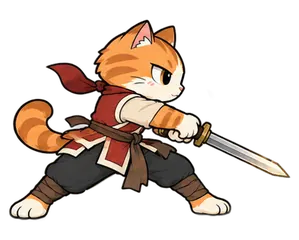
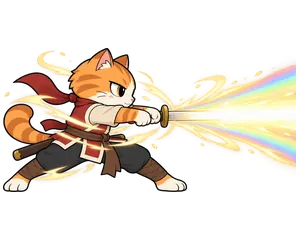
氣貫長虹正式卡圖（Codex 生，三張挑第二張：貓最大、臉最清楚），換掉暫代的斷流圖

diff --git a/tools/gen_fengfeng_guanhong_0929.py b/tools/gen_fengfeng_guanhong_0929.py
@@ -1,0 +1,37 @@
+"""絕學·氣貫長虹（2026-09-29 新牌）的牌面：借用 qiuqiu-coop/tools/gen_fengfeng_qi_cards_0925.py 的提示詞與流程，
+輸出放在暫存區（不動倉庫的清單），挑好再放進副本。
+用法：python gen_guanhong.py refs | gen [--note ...] | pick <第幾次>
+"""
+import sys
+from pathlib import Path
+sys.path.insert(0, 'F:/ClaudeWork/qiuqiu-coop/tools')
+import gen_fengfeng_qi_cards_0925 as g  # noqa: E402
+from PIL import Image  # noqa: E402
+
+OUT = Path('C:/Users/yayax/AppData/Local/Temp/claude/C--Users-yayax/586bf34b-7da0-4f66-b652-57d4af48e903/scratchpad/guanhong')
+g.SOURCE = OUT
+g.REF = OUT / '_ref'
+g.PROMPTS = OUT / 'prompts.json'
+g.CARDS = {
+    'fengfeng_guanhong': ('fengfeng_duanliu', 'RADIANT WHITE-GOLD WITH A FAINT RAINBOW SHEEN',
+        'strict side view facing RIGHT, he stands in a long, low, perfectly straight forward lunge and drives his jian '
+        'straight ahead with both paws; ALL of his stored breath bursts out along the blade as ONE enormous, perfectly '
+        'straight beam of sword-energy that shoots from the sword tip all the way to the RIGHT edge of the picture, '
+        'like a long rainbow piercing the sky: a thick white-gold core with a thin, soft rainbow shimmer along its edges. '
+        'A few pale gold wisps of breath swirl around his body and flow INTO the sword. His eyes are narrowed and '
+        'utterly focused, mouth closed in a determined line. The beam is the biggest thing in the picture but it must '
+        'NOT cover his face, paws or sword.'),
+}
+
+if __name__ == '__main__':
+    OUT.mkdir(parents=True, exist_ok=True)
+    cmd = sys.argv[1]
+    if cmd == 'refs':
+        g.refs()
+    elif cmd == 'gen':
+        note = sys.argv[3] if len(sys.argv) > 3 and sys.argv[2] == '--note' else ''
+        print(g.generate('fengfeng_guanhong', note))
+    elif cmd == 'pick':
+        n = int(sys.argv[2])
+        g.fit(Image.open(OUT / f'fengfeng_guanhong.try{n}.png')).save(OUT / 'fengfeng_guanhong.webp', 'WEBP', quality=78, method=6)
+        print('ok', (OUT / 'fengfeng_guanhong.webp').stat().st_size // 1024, 'KB')
